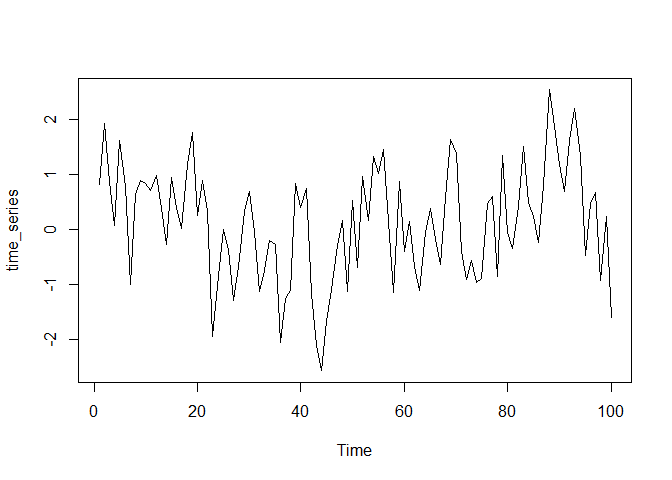
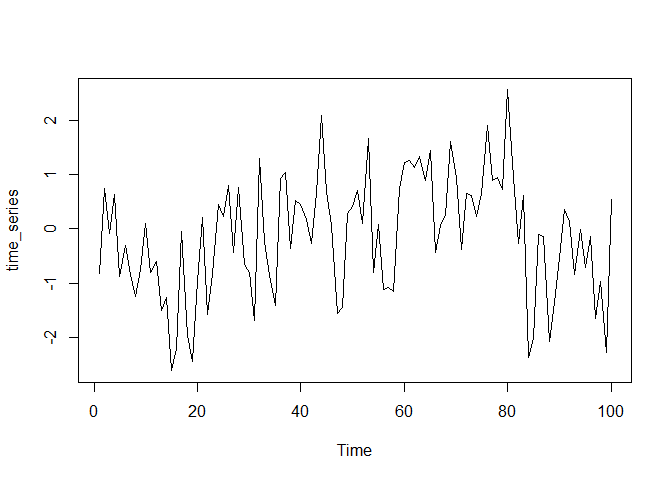
minor

diff --git a/src/2022-03-04_inadequacy-of-t-tests-for-time-series-data.md b/src/2022-03-04_inadequacy-of-t-tests-for-time-series-data.md
@@ -12,6 +12,12 @@ Nayef Ahmad
 
 # 1 Overview
 
+It’s commonly known that violation of the independence assumption is a
+problem for the t-test. One common specific way in which this violation
+can occur is when there is dependence across time/sequence for a set of
+data. Here we show that this can lead to serious inflation of the Type 1
+error rate.
+
 Reference:
 
 -   [Speegle & Clair, Section
@@ -34,7 +40,7 @@ Here we have an `AR(1)` model with no “intercept” or starting term. By
 definition, it is weakly stationary, with mean equal to zero. That is,
 *μ* = 0.
 
-The sample mean here is 0.1280255.
+The sample mean here is -0.1375744.
 
 We can do a t-test to assess the null hypothesis
 *H*<sub>0</sub> : *μ* = 0 vs alternative hypothesis
@@ -47,7 +53,7 @@ alpha <- .05
 reject_null <- t_test_p_value < alpha
 ```
 
-The t-test gives a p-value of 0.2163467, which in this case means
+The t-test gives a p-value of 0.2160367, which in this case means
 `reject_null` = FALSE.
 
 # 3 Simulation of a large number of t-tests
@@ -60,7 +66,7 @@ wrongly rejected.
 alpha <- 0.05
 
 sim_data <- replicate(10000, {
-  x <- arima.sim(model = list(ar = .5), n = 100)
+  x <- arima.sim(model = list(ar = .5), n = 200)
   t.test(x, mu = 0)$p.value
   
 })
@@ -71,7 +77,7 @@ prop_false_rejection <- mean(sim_data < alpha)
 The Type 1 error rate is the proportion of time the p-value is less than
 `alpha` under the null hypothesis.
 
-**Here, the value of the Type 1 error rate is 0.2555. This is much
+**Here, the value of the Type 1 error rate is 0.2552. This is much
 higher than `alpha`, which is the “advertised” Type 1 error rate.**
 
 # 4 Comparison using normally distributed data
@@ -86,4 +92,4 @@ sim_data <- replicate(10000, {
 prop_false_rejection_normal <- mean(sim_data < .05)
 ```
 
-Here the t-test performs well. The Type 1 error rate is 0.0506
+Here the t-test performs well. The Type 1 error rate is 0.0507
